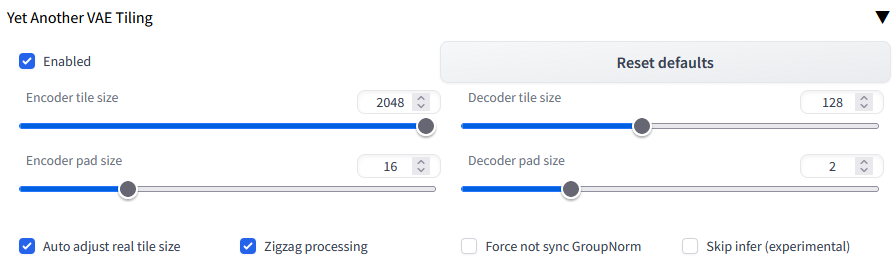
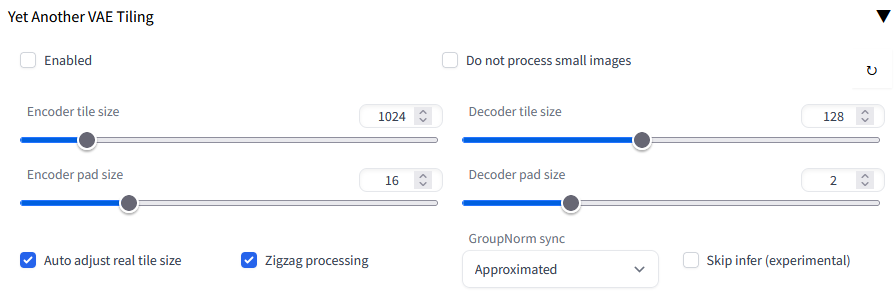
revert undo hijack

diff --git a/scripts/vae_tile.py b/scripts/vae_tile.py
@@ -802,6 +802,12 @@ class Script(Script):
         if not hasattr(encoder, 'original_forward'): encoder.original_forward = encoder.forward
         if not hasattr(decoder, 'original_forward'): decoder.original_forward = decoder.forward
 
+        # undo hijack
+        if not enabled:
+            encoder.forward = encoder.original_forward
+            decoder.forward = decoder.original_forward
+            return
+
         # extras parameters
         if enabled:
             global smart_ignore, auto_shrink, zigzag_process, gn_sync, skip_infer, skip_infer_plan
